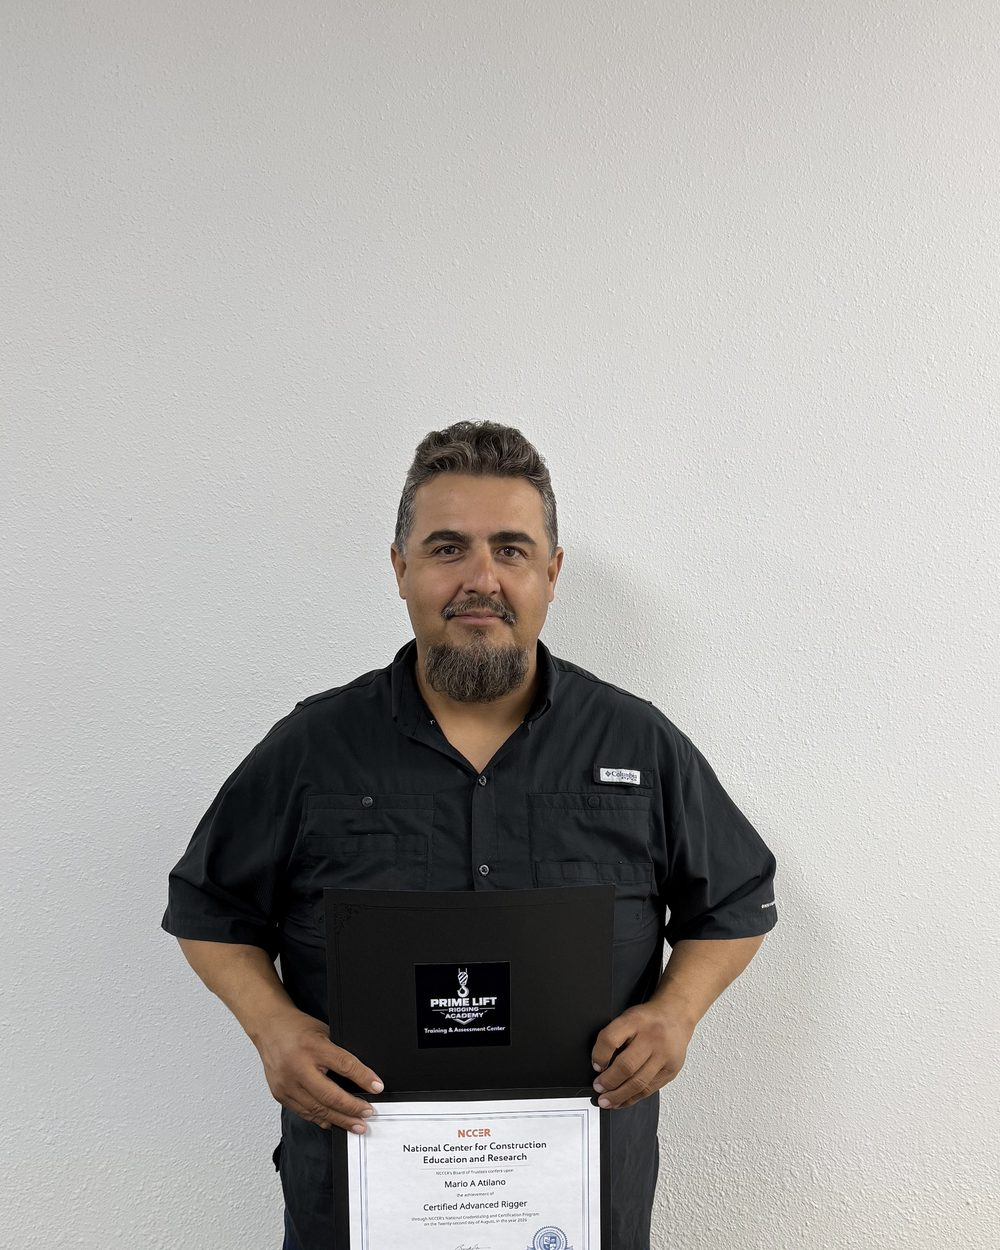
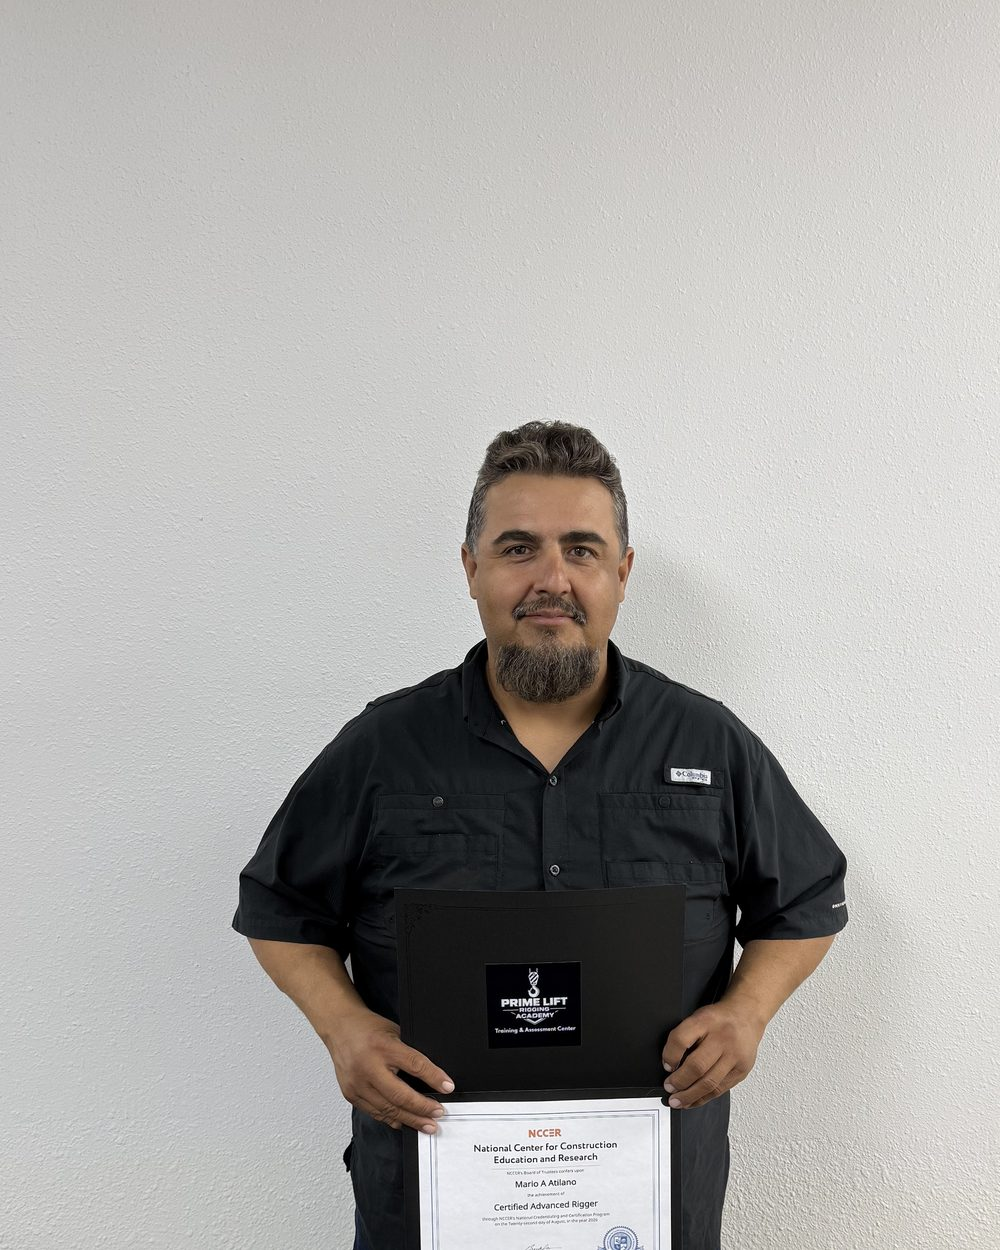
Hero: graduate panel floats above the section edge, tighter name-plate fade; portraits re-cropped so each subject is centred; mobile quote centred above the photo

diff --git a/css/site.css b/css/site.css
@@ -1468,3 +1468,27 @@ p:last-child{margin-bottom:0}
   .gw-marks{flex-direction:column; align-items:flex-start; gap:10px; margin-top:22px}
   .band .eyebrow{font-size:10px; letter-spacing:.16em}
 }
+/* the graduate panel floats above the hero's bottom edge instead of sitting on it,
+   so the next section's diagonal never slices through the photo's fade */
+.hero-fig{margin-bottom:36px}
+@media(min-width:900px){
+  .hero-fig{margin-bottom:clamp(48px,5.6vw,84px)}
+  .hero-copy{padding-bottom:clamp(64px,7.4vw,108px)}
+  .hero-fig q{top:22px}
+}
+.hero-photo figcaption{
+  padding:62px 22px 20px;
+  background:linear-gradient(180deg,transparent 0%,rgba(10,10,12,.5) 34%,rgba(10,10,12,.97) 100%);
+}
+/* subject sits at 39% 12% of the frame; keep him centred whatever the crop */
+.hero-photo img{object-position:50% 12%}
+/* phones: the quote sits centred above the photo, the name plate centres too */
+@media(max-width:899px){
+  .hero-fig{display:flex; flex-direction:column; align-items:center}
+  .hero-fig q{
+    position:static; order:-1; display:block; margin:0 auto 14px; max-width:96%;
+    text-align:center; transform:skewX(-4deg);
+  }
+  .hero-photo{width:100%}
+  .hero-photo figcaption{text-align:center}
+}
